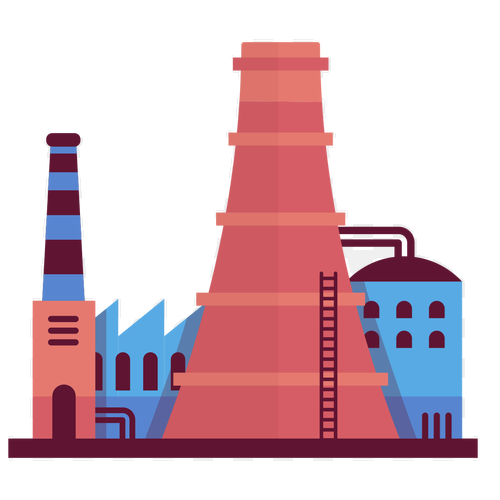
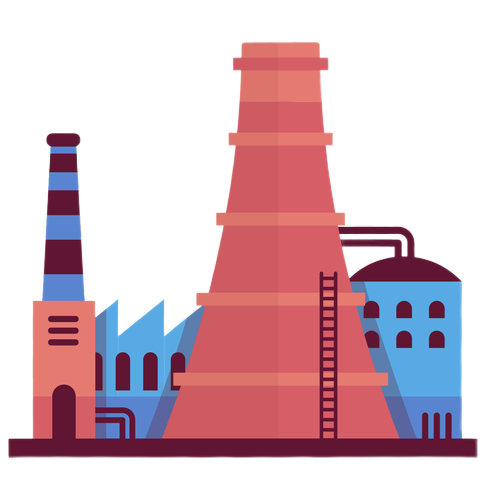
MIG-55: Add two new companies - School and NurseryHome

diff --git a/Migration.Contracts/Migrations/20260725183023_AddNewCompanies.cs b/Migration.Contracts/Migrations/20260725183023_AddNewCompanies.cs
@@ -1,0 +1,37 @@
+using Microsoft.EntityFrameworkCore.Migrations;
+
+#nullable disable
+
+namespace Migration.Contracts.Migrations
+{
+    /// <inheritdoc />
+    public partial class AddNewCompanies : Microsoft.EntityFrameworkCore.Migrations.Migration
+    {
+        /// <inheritdoc />
+        protected override void Up(MigrationBuilder migrationBuilder)
+        {
+            migrationBuilder.InsertData(
+                table: "Companies",
+                columns: new[] { "Id", "Name", "Alias", "Latitude", "Longitude", "Image" },
+                values: new object[,]
+                {
+                    { new Guid("33333333-3333-3333-3333-333333333333"), "Школа", "School", 44.2, 48.3, "School.png" },
+                    { new Guid("44444444-4444-4444-4444-444444444444"), "Дом престарелых", "NurseryHome", 23.5, 56.5, "NurseryHome.png" }
+                });
+        }
+
+        /// <inheritdoc />
+        protected override void Down(MigrationBuilder migrationBuilder)
+        {
+            migrationBuilder.DeleteData(
+                table: "Companies",
+                keyColumn: "Id",
+                keyValue: new Guid("33333333-3333-3333-3333-333333333333"));
+
+            migrationBuilder.DeleteData(
+                table: "Companies",
+                keyColumn: "Id",
+                keyValue: new Guid("44444444-4444-4444-4444-444444444444"));
+        }
+    }
+}

diff --git a/Migration.Contracts/Migrations/20260725183023_AddNewCompanies.Designer.cs b/Migration.Contracts/Migrations/20260725183023_AddNewCompanies.Designer.cs
@@ -3,6 +3,7 @@ using System;
 using Microsoft.EntityFrameworkCore;
 using Microsoft.EntityFrameworkCore.Infrastructure;
 using Microsoft.EntityFrameworkCore.Metadata;
+using Microsoft.EntityFrameworkCore.Migrations;
 using Microsoft.EntityFrameworkCore.Storage.ValueConversion;
 using Migration.Contracts;
 
@@ -11,9 +12,11 @@ using Migration.Contracts;
 namespace Migration.Contracts.Migrations
 {
     [DbContext(typeof(CoreDBContext))]
-    partial class CoreDBContextModelSnapshot : ModelSnapshot
+    [Migration("20260725183023_AddNewCompanies")]
+    partial class AddNewCompanies
     {
-        protected override void BuildModel(ModelBuilder modelBuilder)
+        /// <inheritdoc />
+        protected override void BuildTargetModel(ModelBuilder modelBuilder)
         {
 #pragma warning disable 612, 618
             modelBuilder
